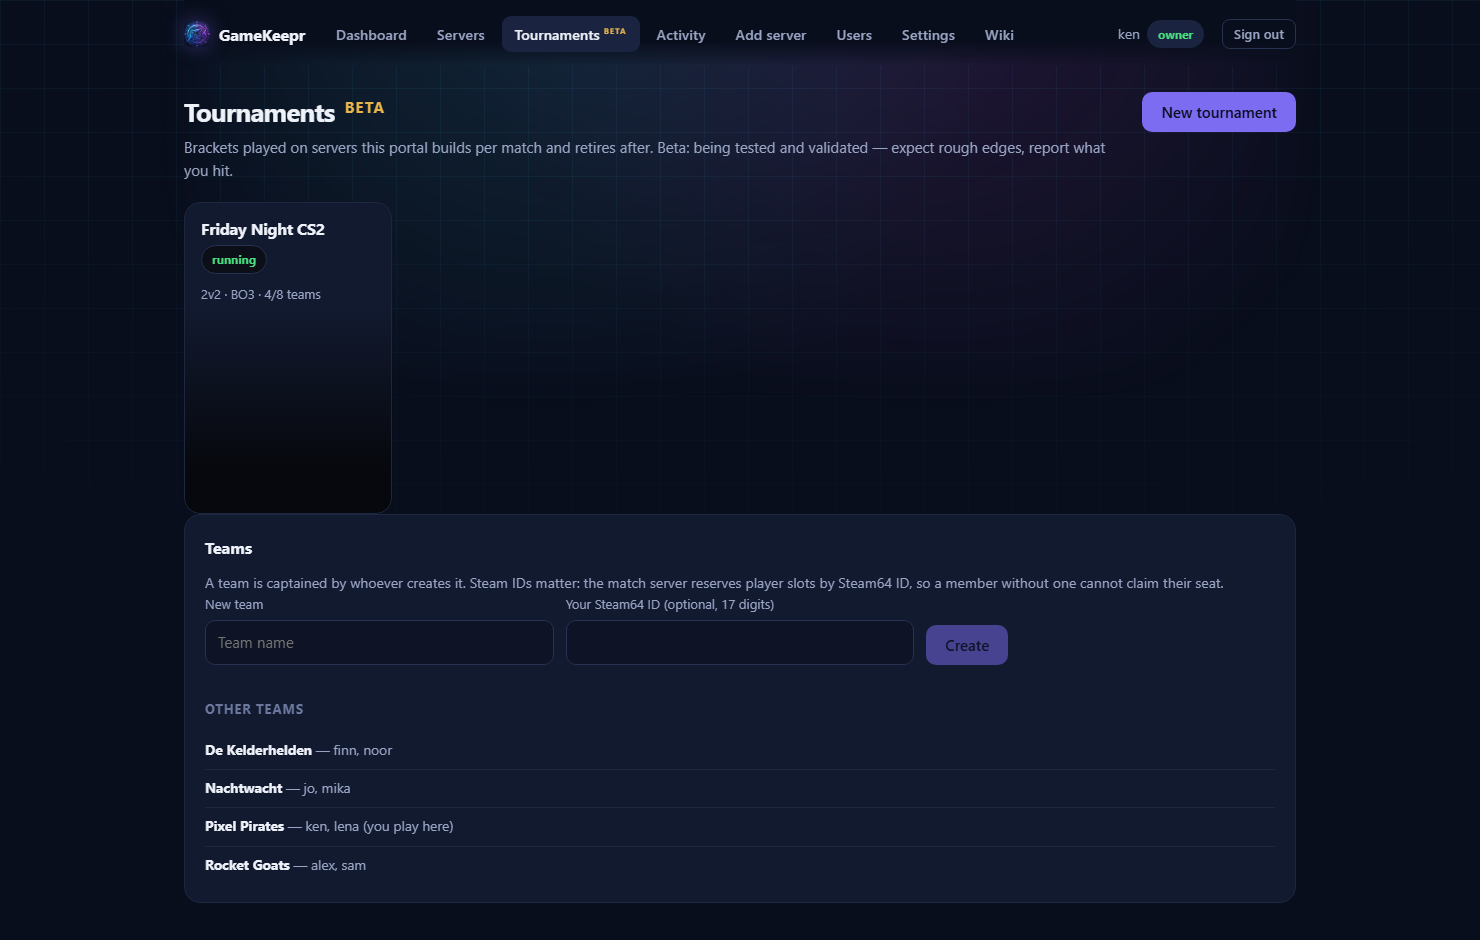
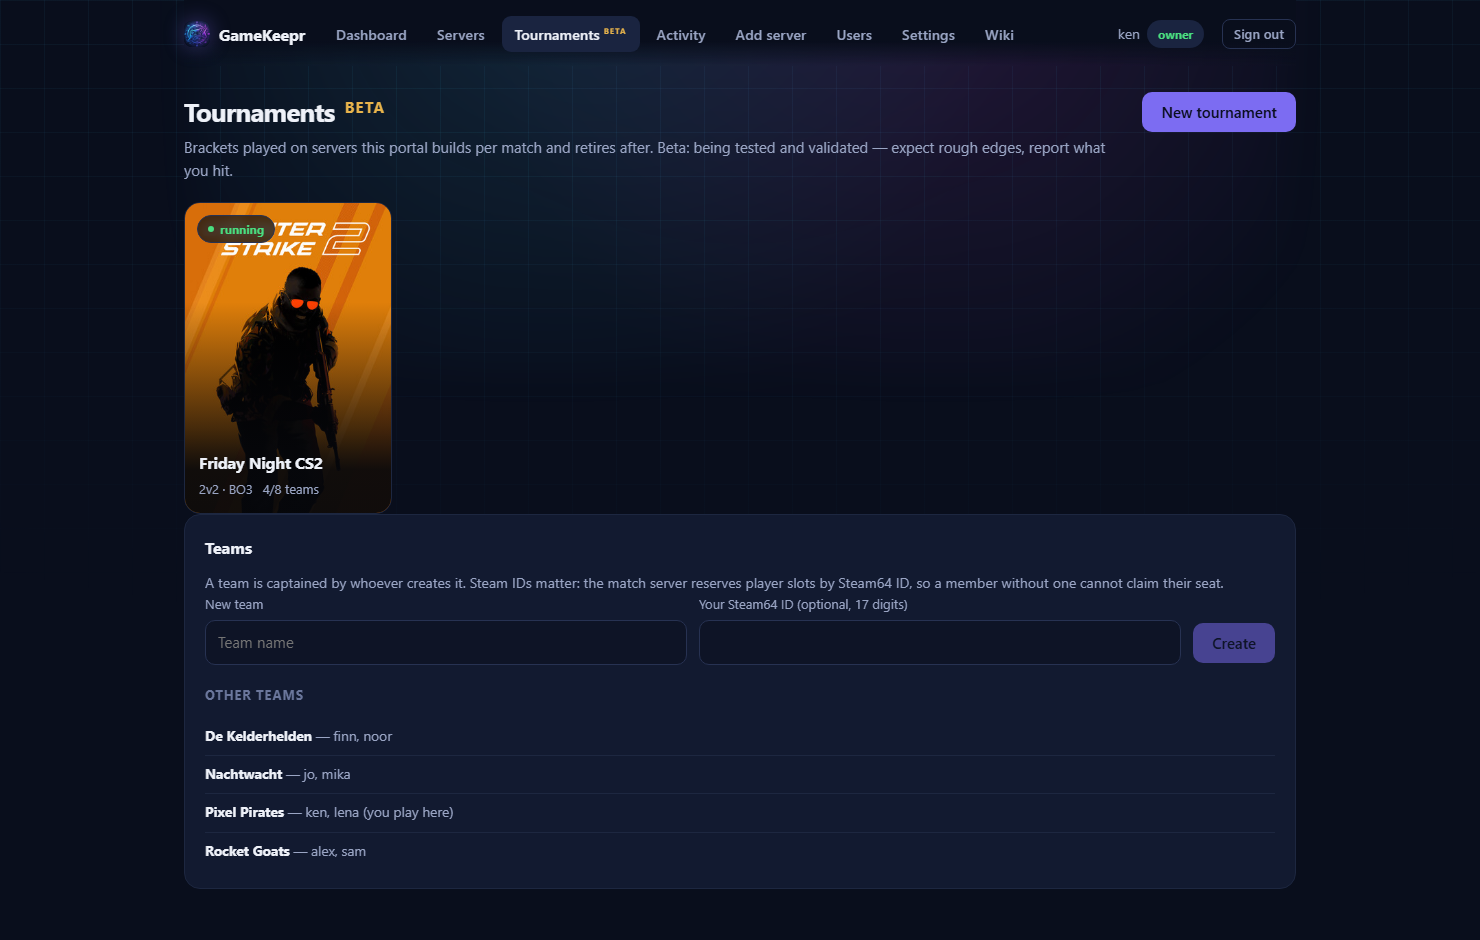
A tournament card is a game card
The tournament tile wore an empty dark rectangle; now it wears the same
full-bleed poster, status pill and footer as every server card, because a
tournament's game has art like any other. Game art lives under a fixed
game- namespace in the artwork store (closed set, fetched by the portal
itself, same auth as all artwork). The teams panel's Create button now
lines up with the inputs beside it instead of floating at label height.

diff --git a/web/src/pages/TournamentsPage.tsx b/web/src/pages/TournamentsPage.tsx
@@ -7,6 +7,7 @@ import {
   type TeamInfo,
   type TournamentSummary,
 } from '../api.ts';
+import { artworkUrl, fallbackHue } from '../api.ts';
 import { linkProps } from '../router.ts';
 
 const explain = (err: unknown, fallback: string): string =>
@@ -79,25 +80,60 @@ export function TournamentsPage({ me }: { me: Me }) {
       ) : (
         <div className="grid">
           {tournaments.map((t) => (
-            <a key={t.id} {...linkProps(`/tournaments/${encodeURIComponent(t.id)}`)} className="tile flat">
-              <div className="tile-body">
-                <span className="tile-name">{t.name}</span>
-                <span className="tile-meta">
-                  <span className={`pill ${t.status === 'running' ? 'ok' : 'plain'}`}>
-                    {STATUS_LABEL[t.status]}
-                  </span>
-                  <span>
-                    {t.teamSize}v{t.teamSize} · BO{t.bestOf} · {t.entryCount}/{t.maxTeams} teams
-                  </span>
-                </span>
-              </div>
-            </a>
+            <TournamentTile key={t.id} tournament={t} />
           ))}
         </div>
       )}
 
       <TeamsPanel me={me} teams={teams} people={people} onChanged={() => void load()} />
     </>
+  );
+}
+
+/**
+ * The same card a game server gets — poster art, status in the corner, name
+ * at the foot. A tournament has no server id, but its game has a poster like
+ * any other, served under the fixed game- namespace.
+ */
+function TournamentTile({ tournament: t }: { tournament: TournamentSummary }) {
+  const [failed, setFailed] = useState(false);
+  return (
+    <a
+      {...linkProps(`/tournaments/${encodeURIComponent(t.id)}`)}
+      className={`tile${t.status === 'running' ? '' : ' stopped'}`}
+      style={{ '--hue': fallbackHue(t.id) } as React.CSSProperties}
+    >
+      {!failed ? (
+        <img
+          className="poster"
+          src={artworkUrl(`game-${t.game}`, 'poster')}
+          alt=""
+          loading="lazy"
+          onError={() => setFailed(true)}
+        />
+      ) : (
+        <div className="fallback" aria-hidden="true">
+          {t.name.charAt(0).toUpperCase()}
+        </div>
+      )}
+      <div className="tile-top">
+        <span className={`pill ${t.status === 'running' ? 'ok' : 'plain'}`}>
+          <span className="dot" />
+          {STATUS_LABEL[t.status]}
+        </span>
+      </div>
+      <div className="tile-body">
+        <span className="tile-name">{t.name}</span>
+        <span className="tile-meta">
+          <span>
+            {t.teamSize}v{t.teamSize} · BO{t.bestOf}
+          </span>
+          <span>
+            {t.entryCount}/{t.maxTeams} teams
+          </span>
+        </span>
+      </div>
+    </a>
   );
 }
 
@@ -225,26 +261,23 @@ function TeamsPanel({
           <span>Your Steam64 ID (optional, 17 digits)</span>
           <input value={steamId} onChange={(e) => setSteamId(e.target.value)} />
         </label>
-        <div className="field">
-          <span>&nbsp;</span>
-          <button
-            type="button"
-            className="btn-primary"
-            disabled={name.trim().length < 2}
-            onClick={async () => {
-              setError(null);
-              try {
-                await api.createTeam(name.trim(), steamId.trim() || undefined);
-                setName('');
-                onChanged();
-              } catch (err) {
-                setError(explain(err, 'Could not create the team.'));
-              }
-            }}
-          >
-            Create
-          </button>
-        </div>
+        <button
+          type="button"
+          className="btn-primary fieldrow-action"
+          disabled={name.trim().length < 2}
+          onClick={async () => {
+            setError(null);
+            try {
+              await api.createTeam(name.trim(), steamId.trim() || undefined);
+              setName('');
+              onChanged();
+            } catch (err) {
+              setError(explain(err, 'Could not create the team.'));
+            }
+          }}
+        >
+          Create
+        </button>
       </div>
       {error ? <p className="hint bad">{error}</p> : null}
 

diff --git a/server/src/routes/artwork.ts b/server/src/routes/artwork.ts
@@ -14,15 +14,20 @@ export function registerArtworkRoutes(app: FastifyInstance, ctx: AppContext) {
     '/artwork/:id/:kind',
     { preHandler: guard.requireActiveUser },
     async (request, reply) => {
-      // Routed through the server whitelist like everything else, so the path
-      // can never be steered by the client.
+      /*
+       * Routed through the server whitelist like everything else, so the path
+       * can never be steered by the client. The one exception is the fixed
+       * `game-` namespace: art for a game rather than a server (tournament
+       * cards wear it), still a closed set the portal itself fetched.
+       */
       const server = registry.get(request.params.id);
+      const gameArt = /^game-[a-z0-9]{1,16}$/.test(request.params.id);
       const kind = request.params.kind as ArtworkKind;
-      if (!server || !ARTWORK_KINDS.includes(kind)) {
+      if ((!server && !gameArt) || !ARTWORK_KINDS.includes(kind)) {
         return reply.code(404).send({ error: 'not-found' });
       }
 
-      const path = await artwork.resolve(server.id, kind);
+      const path = await artwork.resolve(server?.id ?? request.params.id, kind);
       if (!path) return reply.code(404).send({ error: 'no-artwork' });
 
       return reply

diff --git a/web/src/styles.css b/web/src/styles.css
@@ -225,10 +225,6 @@ body::after {
   color: #e8b44c;
   margin-left: 4px;
 }
-/* A list tile without poster art: same card, calmer face. */
-.tile.flat { min-height: 110px; background: var(--surface, rgba(22, 28, 46, 0.8)); }
-.tile.flat .tile-body { position: static; padding: 16px; }
-
 .teamcard {
   border: 1px solid rgba(255, 255, 255, 0.07);
   border-radius: 12px;
@@ -238,7 +234,9 @@ body::after {
 .steamid { width: 180px; font-size: 0.8rem; }
 .rowtools { display: inline-flex; gap: 6px; align-items: center; }
 .fieldrow { display: flex; gap: 12px; flex-wrap: wrap; align-items: end; }
-.fieldrow .field { flex: 1 1 160px; }
+.fieldrow .field { flex: 1 1 160px; margin: 0; }
+/* A button that lines up with the inputs beside it, not with their labels. */
+.fieldrow-action { align-self: end; margin-bottom: 2px; }
 
 .bracket { display: flex; gap: 18px; overflow-x: auto; padding-bottom: 6px; }
 .bracket-round { min-width: 240px; display: flex; flex-direction: column; gap: 10px; }

diff --git a/server/src/index.ts b/server/src/index.ts
@@ -282,9 +282,17 @@ async function main() {
   }).start();
 
   // Fetched in the background: a slow or blocked Steam CDN must not hold up
-  // the portal, and a missing image only costs a lettered tile.
+  // the portal, and a missing image only costs a lettered tile. The pseudo
+  // entry fetches the game art tournament cards wear -- tournaments have no
+  // server id of their own, but their game has a poster like any other.
   void artwork
-    .ensure(registry.list(), (message) => app.log.info(message))
+    .ensure(
+      [
+        ...registry.list(),
+        { id: 'game-cs2', displayName: 'Counter-Strike 2', steamAppId: 730 } as (typeof servers)[number],
+      ],
+      (message) => app.log.info(message),
+    )
     .catch((err) => app.log.warn({ err }, 'artwork fetch failed'));
 
   // Printed to the container log, never written to disk: creating the first
